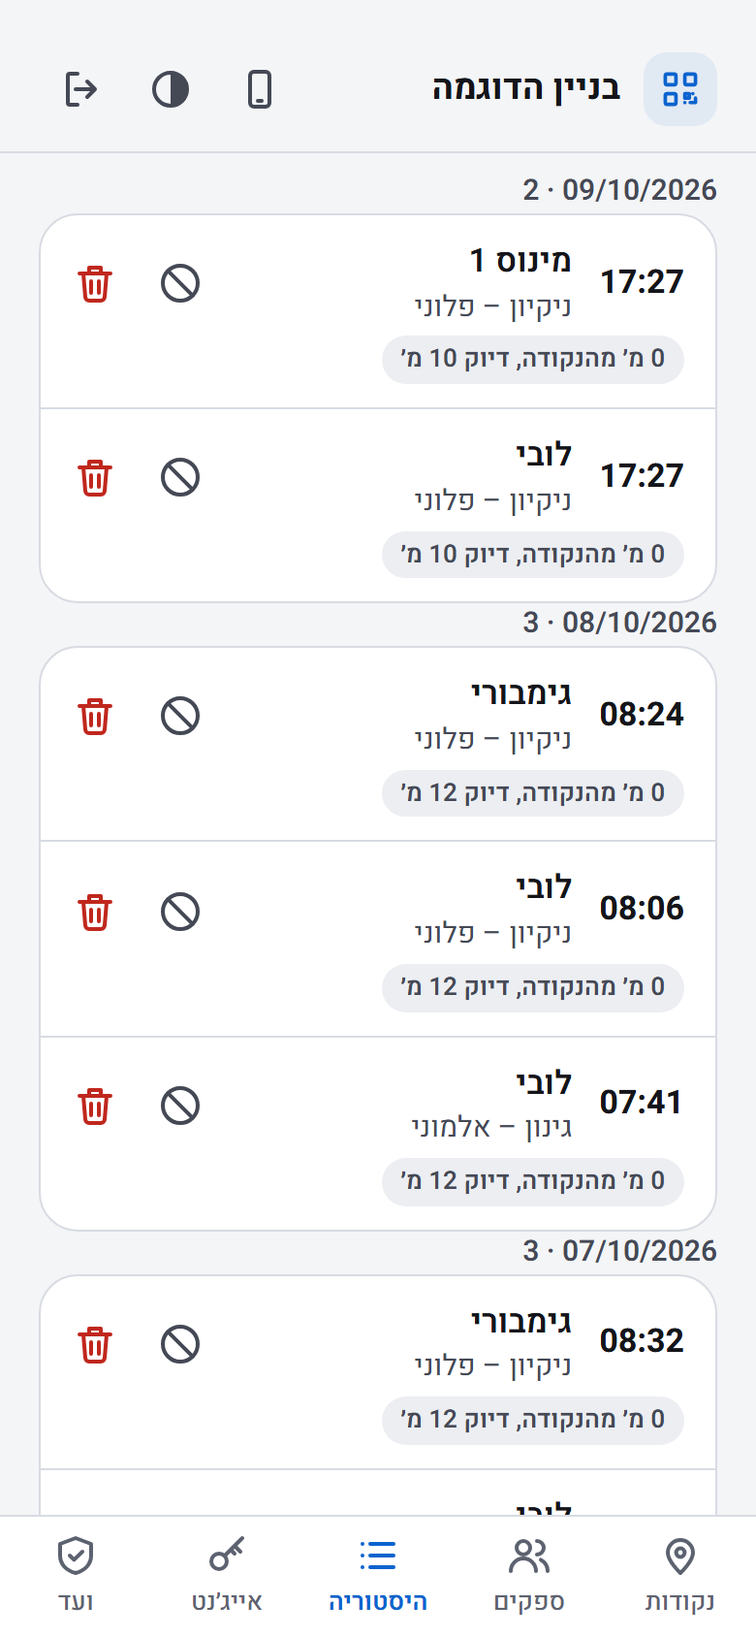
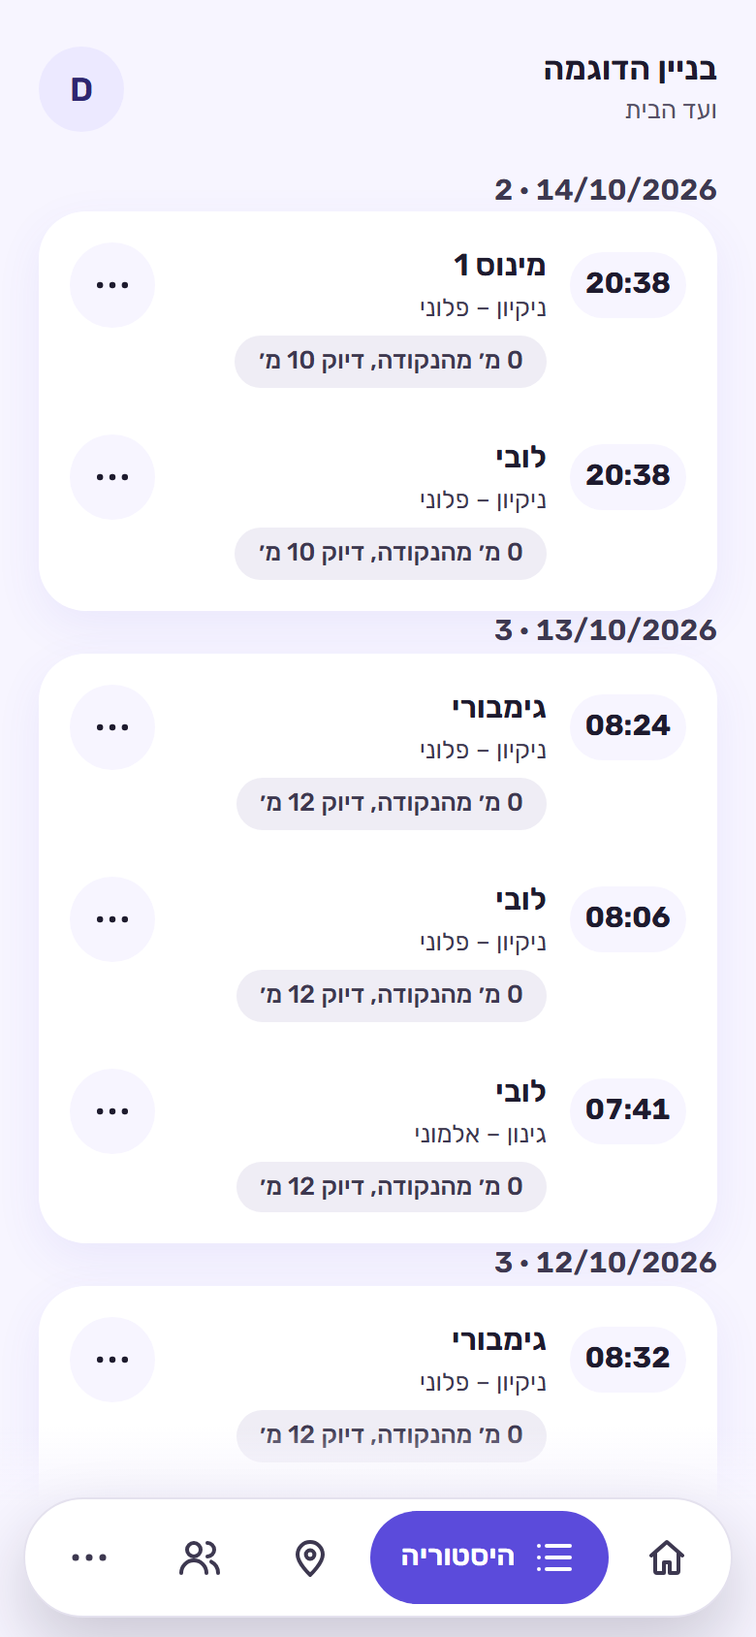
docs(design): the baseline and the screenshots after the redesign
A new dated section in docs/design/baseline.md measures the apps after
#222 to #238 (accessibility, reflow, contrast, size, the fonts, the
visual baselines) and says what changed for a person, with the pull
requests and the decisions D1 to D13.

The README screenshots are taken again with npm run screenshots, and the
Home screen (the summary card, a phone and a computer) is added, since
it is the first screen of the committee app and had no picture.

docs/design.md gains the three rules that the redesign settled and that
it did not state (T3 the fade behind the floating bar, V5 the add pill
and the quiet account circle with its photo, V6 the scan sign), each
with its reason, source and check. Item 12 of the iPhone checklist now
covers the floating bar and the account circle.

diff --git a/docs/design/baseline.md b/docs/design/baseline.md
@@ -143,3 +143,120 @@ of the session script ("how many visits a provider made last week") now goes thr
   Filter ("סינון") button.
 - Not checked on a real iPhone yet: the two sheets (focus, the room above the home indicator) and the layout that a
   turned tablet keeps while a date is half typed. `docs/manual-ios-checklist.md` before the next release.
+
+## 14/10/2026, after the redesign to direction B (master 6ce5019)
+
+The same measurements as above, after #222 to #238: the twelve pull requests of the topic "visual redesign B". The
+owner's decision of 14/10/2026 replaced the one of 11/10/2026 that kept Heebo and the blue. Every number below was
+printed by the command next to it, run on 14/10/2026 on master at 6ce5019 with this pull request (documents, pictures
+and the script that takes them) on top, one Playwright project at a time, in a scratch schema. A row says so when a
+number needed a temporary line of code to be counted; that line was taken out again.
+
+### What changed
+
+| What a person sees | Before | Now | Pull request, decision |
+|---|---|---|---|
+| The typeface and the colours | Heebo and the blue; Russian and Arabic had no letters in it, so they read in the device's font | Rubik and a violet palette, light and dark; all four scripts are kept for use without a network; the edge of a field is at least 3:1 | #223 (D2, D4) |
+| Buttons, fields, cards, dialogs | on a phone only the filters and "More" opened from the bottom | pill buttons, cards that rest on a shadow, and on a phone every dialog is a sheet from the bottom (a computer keeps the centre) | #225 (D7) |
+| The actions of a tile or a row | four icon buttons on a point tile; icons on a history row | an edit button and a "more" button; the rest are in its menu, in one order, with the red delete last: points, providers, members, keys, history rows | #222, #231, #234 (D6) |
+| The top of the committee app | three icons: the provider app, light or dark, sign out | one account circle with a menu that holds all three; a quiet violet disc with the member's first letter | #227, #236 (D11) |
+| The member's face | the first letter only | the member's Google photo in the circle and on the member's card, and the letter when there is no photo or it does not load | #237 (D12) |
+| The tab bar on a phone | a bar across the bottom, every tab named | a floating pill, only the current tab named; the page fades out behind it, so nothing shows under or beside it | #227, #235 (D10) |
+| The add buttons | a round "+" | a pill that says what it adds (new point, new provider, new committee member, new key) | #236 (D11) |
+| Home | a table of the counts of seven days | a summary card with a bar for each day (DD/MM heads under the bars), the providers of the week, and tiles | #228 (D5) |
+| History and the audit log | rows divided by edges, and icon buttons on a history row | a soft card for each day, the time in a pill, one "more" button on a row | #234 |
+| The provider app | the previous look | cards, a violet card with three steps, result screens with a ring and a status circle (amber for "saved on the phone"), new texts in the four languages | #226 (D8, D9) |
+| The app icon and the scan sign | the Home Screen icon was the old blue; the QR drawing read as a grid of apps | a white scan frame on the app's violet, the same sign inside the apps, a robot head for the agent, a lock with a plus for a new password | #238 (D13) |
+| What production showed on the way | | each pull request was deployed when it merged, so for hours on 14/10/2026 the new colours stood beside some old structure | D1 |
+
+Three of these (D10, D11, D13) were findings from the owner's own iPhone on 14/10/2026, not from the five sessions below.
+
+What this section replaces in the ones above: the typeface and the blue that the decision of 11/10/2026 kept; the four
+icon buttons of a point tile (the second known problem of the first section, fixed by #187 and now gone with the icons);
+the committee tab bar of 12/10/2026 ("History, Points, Providers and More"), which is now Home, History, Points,
+Providers and More, as a floating pill; and "the screen that opens first: History", which Home has been since #201
+(13/10/2026, before the redesign).
+
+### Automated, run on every pull request
+
+| What | Value | Command or file |
+|---|---|---|
+| Accessibility violations (WCAG 2.1 A and AA, the WCAG 2.2 AA target size, axe best practices; both apps, light and dark) | 0 in 197 scans: 60 of the provider app, 129 of the committee app and 8 of the shared components; `e2e/a11y-baseline.js` lists no exception (0 entries) | `npx playwright test e2e/a11y.spec.js e2e/reflow.spec.js --project=android-chrome`: 34 passed, and the same with `--project=iphone-webkit`: 34 passed (9 tests of `e2e/a11y.spec.js` and 25 of `e2e/reflow.spec.js` in each). The scans were counted with a temporary line in `expectNoA11yViolations` (`e2e/fixtures.js`), in a separate run of `e2e/a11y.spec.js` on android-chrome (9 passed) |
+| Reflow at 320 px, with worst-case text, in the four languages of the provider app and in the committee app (rule T2) | no screen scrolls sideways | the 25 tests of `e2e/reflow.spec.js`, in the run above |
+| Inputs under 16 px on a phone (rule F5) | none | the two F5 tests of `e2e/reflow.spec.js`, in the run above |
+| Physical CSS properties outside the list of exceptions (rule R1) | 0; the list holds 4, each with its reason | `tests/design-css.test.js`, `tests/design-budget.json` |
+| Hard-coded spacing, radius and font-size values (rule V1, may only go down) | 0 (`literalBudget` is empty) | `tests/design-budget.json` |
+| Colour pairs, light and dark (rule V2) | 79 pairs in each theme, 158 in all (53 at 4.5:1 and 26 at 3:1 in each), all pass; 165 tests in the file | `npx vitest run tests/contrast.test.js` |
+| Visual baselines (both apps, phone and computer, light and dark) | 86 pictures: the 68 of 12/10/2026, and 4 for Home (#201), 4 for the account menu (#227), 2 for "saved on the phone" (#226), 8 for the photo (#237) | `ls e2e/__screenshots__/visual.spec.js \| wc -l`, and `git log --diff-filter=A 961a610..6ce5019` over that folder |
+| How strict the pictures are | a pixel counts when its colour moved further than 0.01; Playwright's default is 0.2 | `PIXEL_THRESHOLD` in `e2e/visual.spec.js` (owner decision of 14/10/2026, #233) |
+
+The thinnest colour pair in the light theme is the field border on the second surface at 3.07:1 (it needs 3:1); the
+thinnest text pair is the success green on its own tint, 4.67:1 (it needs 4.5:1). In the dark theme the thinnest is the
+focus ring on the darkest step of the count cells at 3.20:1, a token that no screen draws any more. They were read with a
+temporary copy of `tests/contrast.test.js` that logged each ratio. The pictures are compared on the Linux runner only
+(`docs/testing.md`), so this pull request's CI, not a laptop, is the check on them; this pull request changes none.
+
+### The size of what a phone downloads
+
+| Part | Bytes (brotli) | Budget | Before (12/10/2026) |
+|---|---|---|---|
+| Provider app, entry JS | 79,482 | 86,016 | 78,482 |
+| Provider app, entry CSS | 4,700 | 5,120 | 4,176 |
+| Committee app, chunk JS | 40,069 | 41,984 | 77,792 |
+| Committee app, chunk CSS | 5,828 | 5,828 | 9,442 |
+| Committee app, lazy chunks JS (the map) | 42,799 | 47,104 | in the chunk above |
+| Committee app, lazy chunks CSS (the map) | 5,668 | 6,656 | in the chunk above |
+| Precache, total | 322,990 (21 files) | 322,990 (21 files) | 239,776 (16 files) |
+
+`npm run size`, `scripts/check-bundle-size.json`, on an export of the commit with LF line endings (`git archive` with
+`core.autocrlf` off), which is what CI builds. The map left the committee chunk for a lazy chunk on 14/10/2026, which is
+not part of the redesign: it is why the committee chunk is about half of what it was, and the two lazy rows are new. The
+committee app's JavaScript in all is 82,868 (it was 77,792) and its CSS 11,496 (it was 9,442). The budgets that the
+redesign raised, each with its reason at the top of its pull request: the provider app's entry CSS from 4,608 to 5,120
+(#226), the committee chunk's CSS from 5,632 (set when the map left it) to 5,828 (#231, #234, #235, #237), and the
+precache from 256,000 to 322,990 (#223 to #238; its count of files went from 17 to 21, two of them the map's).
+
+**There is no headroom left** in two budgets: the committee chunk's CSS (5,828 of 5,828) and the precache (322,990 of
+322,990, 21 files of 21). The next byte of CSS in the committee app, or of a font or an icon, needs a raised budget in a
+pull request that says why, or something deleted first.
+
+### The fonts
+
+| File (`assets/rubik-<subset>-wght-normal`) | On disk (bytes) | In the precache (brotli) |
+|---|---|---|
+| hebrew | 9,348 | 9,336 |
+| cyrillic-ext | 12,388 | 12,387 |
+| cyrillic | 15,112 | 15,116 |
+| latin-ext | 19,400 | 19,398 |
+| arabic | 32,468 | 32,472 |
+| latin | 35,348 | 35,319 |
+| Six files | 124,064 | 124,028 |
+
+Six files cover the four scripts (Hebrew, Latin, Cyrillic, Arabic), and every one is in the precache (D2), so the
+provider app reads in its own typeface in Hebrew, English, Russian and Arabic with no network: they are 38.4 percent of
+the precache. The rest of the 322,990 bytes: the JavaScript and CSS of the provider app, the committee app and the map
+180,496; the three PNG icons 16,308 and the two SVG icons 638; the service worker's small files (the theme script, the
+page, the manifest) 1,520. The sizes on disk are from `vite build`, the bytes in the precache are from the precache list
+of `dist/sw.js`, read with `precacheUrls` and `sizeOfUrl` of `scripts/check-bundle-size.mjs`; the groups are sums of
+those.
+
+### Still not measured
+
+The friction in production and the five sessions with people, as in the first section. The sessions are where the new
+look (the icon-only tab bar, the account circle, the "more" menu) would be tried by the people who use it; the script
+has no question about them yet.
+
+### Known and not fixed
+
+- On a Windows checkout with `core.autocrlf=true`, `npm run size` measures 323,015 bytes for the precache, 25 over the
+  budget, because the working tree has CRLF in `index.html`, the theme script and the SVG icons. CI builds with LF and
+  measures 322,990. The numbers above are from the LF export.
+- Kept only because a test pins them, with no screen using them: the count-cell tokens `--w-count-1` to `4` and their
+  contrast checks (#228), and the `.a-icon-btn--danger` rules and `tone="primary"` of `IconButton` (#234, #236).
+- The new things are not checked on a real iPhone yet: the account circle with and without a photo, the fade behind the
+  tab bar and the new icon (`docs/manual-ios-checklist.md`, items 1 and 12, before the next release).
+- `docs/design.md` is 263 lines, over its own limit of 250 (it was 251 after #223). This pull request adds the rules
+  T3, V5 and V6 and shortens V1 and F4; the rest of the file has no check to shorten it by.
+- `.claude/skills/ui-review/SKILL.md` still lists Heebo among the fixed tokens, and the reason in the `frontend-design`
+  row of `docs/design/sources.md` still says that the owner kept the current identity. Both date from before
+  14/10/2026 and are outside this pull request (`.claude/` is not for this change, and `sources.md` is a register).

diff --git a/docs/design.md b/docs/design.md
@@ -61,10 +61,8 @@ and never clears what was typed.**
 - **Source:** GOV.UK error message, as in F3 (research); Impeccable
   [`harden`](https://github.com/pbakaus/impeccable/blob/main/skill/reference/harden.md), "Preserve user input on
   error"; Vercel, Forms, "Warn on unsaved changes before navigation" (expert opinion).
-- **Check:** `tests/components/dialog-unsaved-changes.test.jsx` (the dialog and every form of the committee app that has one),
-  and the tap outside and Esc in a real browser in `e2e/admin.spec.js`. The dialog asks only when a form passes `dirty` to
-  `Modal` (`useDirty` in `src/admin/ui.jsx`), and passes `busy` while its save is on its way (Esc and a tap outside then do
-  nothing), so a new form with fields does the same and adds its case to that test.
+- **Check:** `tests/components/dialog-unsaved-changes.test.jsx` (every form of the committee app that has fields) and the tap
+  outside and Esc in `e2e/admin.spec.js`. A new form passes `dirty` (and `busy` while it saves) to `Modal` and adds its case.
 
 **F5. Text inputs are at least 16px on phones, so that iOS does not zoom.**
 - **Why:** iOS Safari zooms into a field under 16px and stays zoomed, which leaves the form cropped. The cure is the
@@ -145,6 +143,12 @@ deleting (see `AGENTS.md`, Rules for every change).**
   (expert opinion).
 - **Check:** `planned: e2e 320px reflow` (`fitsTheWidth` in `e2e/error-boundary.spec.js` does it for one screen).
 
+**T3. A floating bar hides nothing a tap can reach: on a phone the page fades into the background colour behind it, and
+the end of every page stands clear above the fade.**
+- **Why:** content peeked out under and beside the floating tab bar, and a tap could reach a control that nobody could see.
+- **Source:** this project; the owner's decision of 14/10/2026 (D10 of the redesign), made on his iPhone.
+- **Check:** `e2e/admin.spec.js`, "the page fades out behind the tab bar of the phone", at 360 and 320 px.
+
 ## RTL and languages
 
 **R1. Layout uses logical CSS properties (inline and block). A physical property appears only in the list of exceptions,
@@ -177,22 +181,13 @@ controls, the QR code, logos or checkmarks.**
 
 **V1. Colours, font weights, spacing, radii and font sizes come from the tokens.**
 - **Why:** one set of tokens keeps the light and dark themes in step: a colour written in place passes in one theme and
-  fails in the other. The sizes follow the same rule: spacing (`--w-space-*`), radius (`--w-radius-*`) and font size
-  (`--w-font-*`) are three families of tokens, defined once on `:root` in `src/ui/base.css` next to the weight tokens, and
-  a size that has a token is written as the token. The scales are consolidated (the rare radii and font sizes
-  were folded into their neighbours), and a size that must keep its exact value, such as the room above the tab bar, is a
-  named layout constant (`--w-layout-*`, next to them), so no literal is left in a spacing, radius or font-size declaration.
-  The colours are tokens of each theme in `src/ui/ui.css` (the dark block, and the light one that sets every token again),
-  in these families: the surfaces (`--w-bg`, `--w-surface`, `--w-surface-2`, `--w-surface-3`); the lines (`--w-border`,
-  and `--w-field-border` with its `-hover`, 3:1 or more on every surface); the text (`--w-text`, `-2`, `-3`); the primary
-  colour (`--w-primary`, `-hover`) and the colour of the text on it (`--w-on-primary`, white in light and dark in dark,
-  because white on the light violet of the dark theme fails); the focus (`--w-focus`, `--w-focus-ring`); the four states,
-  each with its background and its line (`--w-success`, `--w-warn`, `--w-danger`, `--w-info`, `-bg`, `-line`); the
-  summary card and its text (`--w-hero`, `--w-on-hero`); four tints for tiles, chips and badges, each with the ink that is
-  read on it (`--w-tint-violet`, `-peach`, `-mint`, `-sky`, and `-ink`); the steps of the count cells (`--w-count-1` to
-  `4`); and the overlay and the three shadows (`--w-overlay`, `--w-shadow` for a card, `--w-shadow-raised` for the summary
-  card, `--w-shadow-pop` for a menu or a sheet). The page around the apps and the browser's bar take `--w-bg`. One
-  typeface, Rubik, is pinned, with every subset (Hebrew, Latin, Cyrillic, Arabic) in the offline precache.
+  fails in the other. Spacing (`--w-space-*`), radius (`--w-radius-*`) and font size (`--w-font-*`) are tokens on `:root` in
+  `src/ui/base.css`, and a size that must keep its exact value, such as the room above the tab bar, is a named layout
+  constant (`--w-layout-*`), so no literal is left in a spacing, radius or font-size declaration. The colours are tokens of
+  each theme in `src/ui/ui.css` (the dark block, and the light one that sets every token again), and the text on the primary
+  colour is white in light and dark in dark: white on the light violet of the dark theme fails. The page around the apps and
+  the browser's bar take `--w-bg`. One typeface, Rubik, is pinned, with every subset (Hebrew, Latin, Cyrillic, Arabic) in
+  the offline precache.
 - **Source:** this project; Refactoring UI (the advice to fix the spacing, sizing and type scales in advance;
   [book](https://refactoringui.com/), expert opinion, paraphrased).
 - **Check:** `tests/contrast.test.js`, `tests/typography.test.js`, and `tests/design-css.test.js` (a literal of a size that
@@ -222,6 +217,23 @@ and adds no animation library (the size budget).**
   [`emil-design-eng`](https://github.com/emilkowalski/skills/blob/main/skills/emil-design-eng/SKILL.md) (expert opinion,
   paraphrased); [WCAG 2.3.3](https://www.w3.org/WAI/WCAG22/Understanding/animation-from-interactions.html) (standard, AAA).
 - **Check:** `review`, and the bundle budget (`npm run size`, `scripts/check-bundle-size.json`).
+
+**V5. At the top of a committee screen the one filled thing is the action: an add button is a pill that says what it adds,
+and the person is a quiet circle with their Google photo, or their initial when there is no photo or it does not load.**
+- **Why:** two solid violet circles, the account and a round "+", stood one above the other, and the eye did not know where
+  to look; a lone "+" does not name what it adds (F7). The photo is never the only way the circle works, so a missing,
+  refused or failed photo shows the initial and never a broken picture. The photo is decoration (`alt=""`): the name
+  is beside it.
+- **Source:** this project; the owner's decisions of 14/10/2026 (D11 and D12 of the redesign), made on his iPhone.
+- **Check:** `tests/admin-icon-buttons.test.js` and the heading tests of `e2e/admin.spec.js`; `tests/contrast.test.js` (the
+  ink of the circle); `tests/components/member-face.test.jsx` and `e2e/admin-photo.spec.js` (the photo and its fallback).
+
+**V6. The sign for "scan" is a frame of four corner brackets, in the apps and in the app icon, and the icon is that frame
+in white on the primary violet.**
+- **Why:** the earlier drawing of a QR code read as a grid of apps, and the Home Screen icon was still the old blue.
+- **Source:** this project; the owner's decision of 14/10/2026 (D13 of the redesign), made on his iPhone from four options.
+- **Check:** `tests/pwa-icons.test.js` (the violet and white, the artwork's size and place) and `tests/png.test.js`; the
+  drawings inside the apps are `review` and the visual baselines (`e2e/visual.spec.js`).
 
 ## Copy
 

diff --git a/docs/manual-ios-checklist.md b/docs/manual-ios-checklist.md
@@ -50,12 +50,16 @@ Mark each item OK or write what you saw. Take a screenshot of anything that look
     arrows point the right way, and no text is cut off.
 11. [ ] Typing a password: the keyboard does not zoom the page, the password manager offers the saved login, and the
     show/hide eye works.
-12. [ ] Committee app (`/admin`) on the phone: it opens on Home ("בית"), and the bar at the bottom has five buttons
-    (Home, History, Points, Providers, More), each label whole on one line. The page fades out behind the bar: no card
-    or number shows under it or beside it, a tap on the blank part beside or under it opens nothing, and at the end of a long page the last
-    card stands clear above the fade. Home greets by the hour and the member's first
-    name, and its summary card has a bar for each day with today at the left end and the seven day heads under the bars
-    (DD/MM), and fits the width (nothing scrolls sideways; on the narrowest phone a head breaks after its slash). A bar
+12. [ ] Committee app (`/admin`) on the phone: it opens on Home ("בית"), and the bar at the bottom floats like a pill
+    above the home indicator, with five buttons (Home, History, Points, Providers, More). Only the current one shows its
+    name, whole on one line; the others are icons, and VoiceOver reads the name of each. The page fades out behind the
+    bar: no card or number shows under it or beside it, a tap on the blank part beside or under it opens nothing, and at the end of a long page the last
+    card stands clear above the fade. At the top, the account circle is a pale violet disc with the member's first
+    letter, or the member's Google photo when they signed in with one: the photo fills the disc, and where it cannot
+    load the letter shows in its place, never a broken picture. A tap opens the account menu (name and e-mail, light,
+    dark or like the device, the provider app, sign out) whole inside the screen, and a tap outside closes it. Home
+    greets by the hour and the member's first name, and its summary card has a bar for each day with today at the left
+    end and the seven day heads under the bars (DD/MM), and fits the width (nothing scrolls sideways; on the narrowest phone a head breaks after its slash). A bar
     with visits opens History for that day, a provider's row opens History for that provider and the seven days, each
     with that many rows, and Back returns to Home. More ("עוד") opens a sheet
     from the bottom with the other four screens, its last row clear of the home indicator; after choosing one,

diff --git a/docs/screenshots/README.md b/docs/screenshots/README.md
@@ -6,8 +6,9 @@ like before installing anything. Both apps are in Hebrew, in the light theme (on
 **They show only the fake sample data** that `scripts/dev-seed.mjs` makes in a scratch schema (an invented building, five
 invented providers, four points on an invented position, and sixteen visits that `scripts/screenshots/seed-history.mjs`
 adds). No real name, address, phone number or coordinate is in them, and none may be: look at every picture before you
-commit it. The dates and times in them are relative to the day that they were taken: the visits are one to five days old, and
-the check-in of the provider app is made at the moment of the run. Every point in them checks the location, as the committee
+commit it. The dates and times in them are relative to the day that they were taken: the visits are one to five days old, the
+check-in of the provider app is made at the moment of the run, and the Home screen greets by the hour of the run and shows
+the seven days that end on that day. Every point in them checks the location, as the committee
 app saves points: `seed-history.mjs` sets that in the run's own schema, while the sample seed keeps the older modes that the
 end-to-end tests use.
 
@@ -16,9 +17,11 @@ end-to-end tests use.
 | `provider-phone-sign-in.png` | The provider app on a phone: a scan link opens the list of names to pick from |
 | `provider-phone-check-in.png` | The same app after signing in: the check-in is recorded |
 | `provider-phone-saved-offline.png` | The same app with no network: the visit is kept on the phone and is sent by itself later |
+| `committee-phone-home.png` | The committee app on a phone: the Home screen, the summary card of the week (the screen that opens first) |
 | `committee-phone-points.png` | The committee app on a phone: the Points tab |
 | `committee-phone-history.png` | The committee app on a phone: the History tab, scrolled to the visits |
-| `committee-computer-points.png` | The committee app on a computer (1280 px wide): the Points tab with the side rail |
+| `committee-computer-home.png` | The committee app on a computer (1280 px wide): the Home screen with the side rail |
+| `committee-computer-points.png` | The same, the Points tab |
 | `committee-computer-history.png` | The same, the History tab |
 | `committee-computer-help.png` | The same, the help screen ("How to work with the system") |
 | `committee-computer-points-dark.png` | The same, the Points tab in the dark theme |

diff --git a/README.md b/README.md
@@ -11,7 +11,7 @@ It is free and open source (MIT). Any building committee can install its own cop
 
 | Provider app: pick your name (first time on a phone) | Provider app: the check-in is recorded | Committee app on a phone: the points |
 |:---:|:---:|:---:|
-| <img src="docs/screenshots/provider-phone-sign-in.png" width="220" alt="The provider app on a phone, opened by a scan. A list of five names to choose from, in Hebrew."> | <img src="docs/screenshots/provider-phone-check-in.png" width="220" alt="The provider app after signing in. A green check mark and a message that the attendance was recorded, with the point, the time and the provider."> | <img src="docs/screenshots/committee-phone-points.png" width="220" alt="The committee app on a phone, the Points tab. A list of scan points, each with its QR, edit, switch off and delete buttons."> |
+| <img src="docs/screenshots/provider-phone-sign-in.png" width="220" alt="The provider app on a phone, opened by a scan. A list of five names to choose from, in Hebrew."> | <img src="docs/screenshots/provider-phone-check-in.png" width="220" alt="The provider app after signing in. A green check mark and a message that the attendance was recorded, with the point, the time and the provider."> | <img src="docs/screenshots/committee-phone-points.png" width="220" alt="The committee app on a phone, the Points tab. A list of scan points under a button that adds one, each with its edit button and a "more" button."> |
 
 <p align="center">
   <img src="docs/screenshots/committee-computer-history.png" width="720" alt="The committee app on a computer, the History tab. Filters on top, and the visits grouped by day, each with its point, provider and time.">
